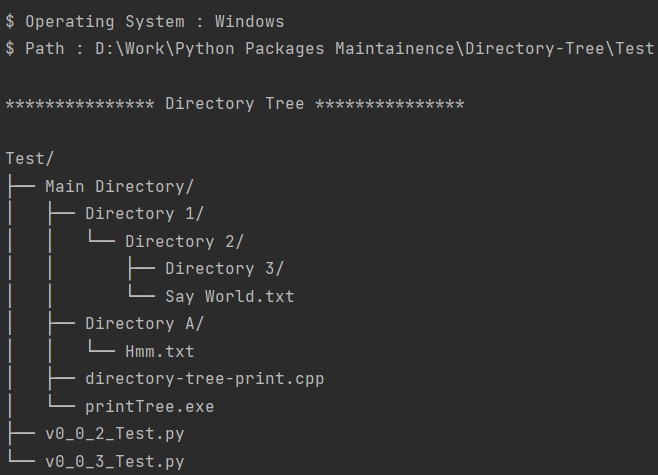
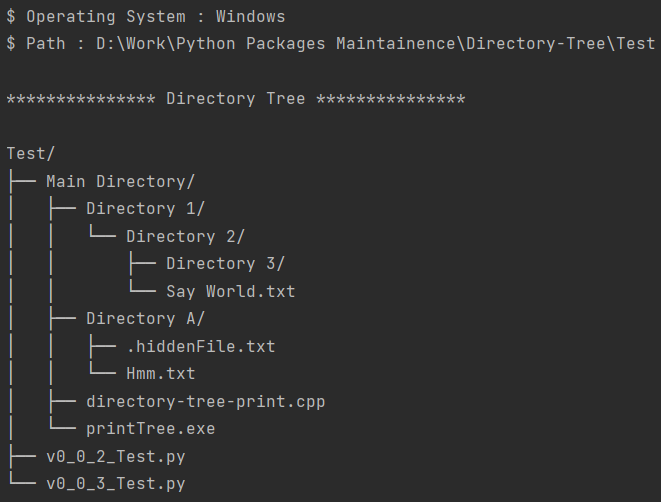
Directory Tree v0.0.3.1

Changed region(s): [[0.0, 0.2947, 0.4863, 1.0], [0.0, 0.0, 1.0, 0.1179], [0.0, 0.1768, 0.6991, 0.2358]]

diff --git a/setup.py b/setup.py
@@ -9,8 +9,8 @@ with open("README.md", "r") as fh:
 setup(
 
     name = 'directory_tree',
-    version = '0.0.3',
-    description = 'Utility Package that displays out the Tree Structure of a Particular Directory.',
+    version = '0.0.3.1',
+    description = 'Utility Package that Displays out the Tree Structure of a Particular Directory.',
     url = "https://github.com/rahulbordoloi/Directory-Tree/",
     author = "Rahul Bordoloi",
     author_email = "rahulbordoloi24@gmail.com",
@@ -24,6 +24,8 @@ setup(
         "Programming Language :: Python :: 3.7",
         "Programming Language :: Python :: 3.8",
         "Programming Language :: Python :: 3.9",
+        "Programming Language :: Python :: 3.10",
+        "Programming Language :: Python :: 3.11",
         "Operating System :: OS Independent",
         "License :: OSI Approved :: GNU General Public License v3 (GPLv3)",
         "Topic :: Utilities",

diff --git a/README.md b/README.md
@@ -74,7 +74,7 @@ if __name__ == '__main__':
 
 Sample Directory Tree -
 
-![SampleDirectoryTree.png](images/SampleDirectoryTree.png)
+![SampleDirectoryTree.png](https://github.com/rahulbordoloi/Directory-Tree/blob/main/images/SampleDirectoryTree.png?raw=true)
 
 NOTE - Here, `letseee.txt` (File) and `Directory 4/` (Directory) are **HIDDEN** in Nature.
 
@@ -85,18 +85,18 @@ from directory_tree import display_tree
 display_tree(header=True)
 ```
 
-![CWDwithHeader.png](images/CWDwithHeader.png)
+![CWDwithHeader.png](https://github.com/rahulbordoloi/Directory-Tree/blob/main/images/CWDwithHeader.png?raw=true)
 
 2. For <i>User Specified Directory</i> with Arguments [String Representation = `True`, Show Hidden Entities = `True`]
 
 ```python
 from directory_tree import display_tree
-customPath = 'C:\Personal\Work\Directory-Tree\Test\Main Directory'
+customPath = 'D:\Work\Python Packages Maintainence\Directory-Tree\Test\Main Directory'
 stringRepresentation = display_tree(customPath, string_rep=True, show_hidden=True)
 print(stringRepresentation)
 ```
 
-![UserSpecifiedDirectoryStrRepShowHidden.png](images/UserSpecifiedDirectoryStrRepShowHidden.png)
+![UserSpecifiedDirectoryStrRepShowHidden.png](https://github.com/rahulbordoloi/Directory-Tree/blob/main/images/UserSpecifiedDirectoryStrRepShowHidden.png?raw=true)
 
 3. For <i>Current Working Directory</i> with Argument [Max Depth = `2`]
 
@@ -105,7 +105,8 @@ from directory_tree import display_tree
 display_tree(max_depth=2)
 ```
 
-![UserSpecifiedDirectoryMaxDep.png](images/UserSpecifiedDirectoryMaxDep.png)
+![UserSpecifiedDirectoryMaxDep.png](https://github.com/rahulbordoloi/Directory-Tree/blob/main/images/UserSpecifiedDirectoryMaxDep.png?raw=true)
+
 
 ## Developing `Directory Tree`
 
@@ -129,3 +130,4 @@ Email : rahulbordoloi24@gmail.com <br>
 
 [![forthebadge made-with-python](http://ForTheBadge.com/images/badges/made-with-python.svg)](https://www.python.org/)
 [![ForTheBadge built-with-love](http://ForTheBadge.com/images/badges/built-with-love.svg)](https://github.com/rahulbordoloi/)
+

diff --git a/CHANGELOG.md b/CHANGELOG.md
@@ -11,9 +11,15 @@ Change Log
 -  Second Release
 *  Added String Representation for GUI Log.
 
-0.0.3 (05/02/2022)
+0.0.3 (05/02/2023)
 -------------------
 -  Third Release
 *  Defining Directory Tree Depth.
 *  Allows Hidden Entities [Files/Directories] to be Ignored.
 *  Allows User to Hide the Header [OS / Path Info].
+
+0.0.3.1 (09/03/2023)
+-------------------
+-  Bug Fix Release Under Third
+*  Bug Fix for Hidden File Detection for Unix Based OSs
+*  Minor README Modifications
